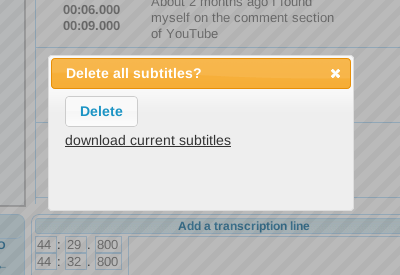
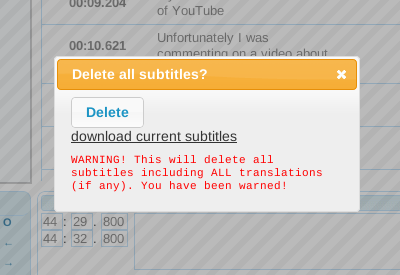
Added caution message next to delete button about translations.

Changed region(s): [[0.0, 0.0, 1.0, 1.0], [0.0, 0.96, 0.03, 0.9891], [0.0, 0.8727, 0.03, 0.9018]]

diff --git a/ext_root/js/sub_deleter.js b/ext_root/js/sub_deleter.js
@@ -172,7 +172,9 @@
       // Create new dialog.
       var ui = $("<div id='delall_dialog'>" +
           "<div class='btn'></div><br />" +
-          "<a class='crnt_subs'></a>" +
+          "<a class='crnt_subs'></a><br />" +
+          "<span class='caution'>WARNING! This will delete all subtitles " +
+          "including ALL translations (if any). You have been warned!</span>" +
           "</div>");
       $(".btn", ui).button({ label: "Delete" }).click(function() {
         $(this).parent().empty().append($("<div class='progress'>" +
@@ -185,7 +187,7 @@
           progressbar({ value: 0 }).
           position({ my: "bottom", at: "bottom", of: ui, offset: "0 -14" });
         startDeleteProcess();
-      }).css({ marginBottom: "5px" });
+      });
       $(".crnt_subs", ui).
         attr("href",
           $('div#advancedMenu > ul > li > a[href$="srt"]').attr("href")).

diff --git a/ext_root/css/sub_deleter.css b/ext_root/css/sub_deleter.css
@@ -7,3 +7,15 @@
   color: blue;
   padding-left: 3px;
 }
+
+#delall_dialog span.caution {
+  display: block;
+  color: red;
+  font-size: 0.8em;
+  font-family: monospace;
+  margin-top: 8px;
+}
+
+#delall_dialog .progressbar {
+  margin-bottom: 5px;
+}
